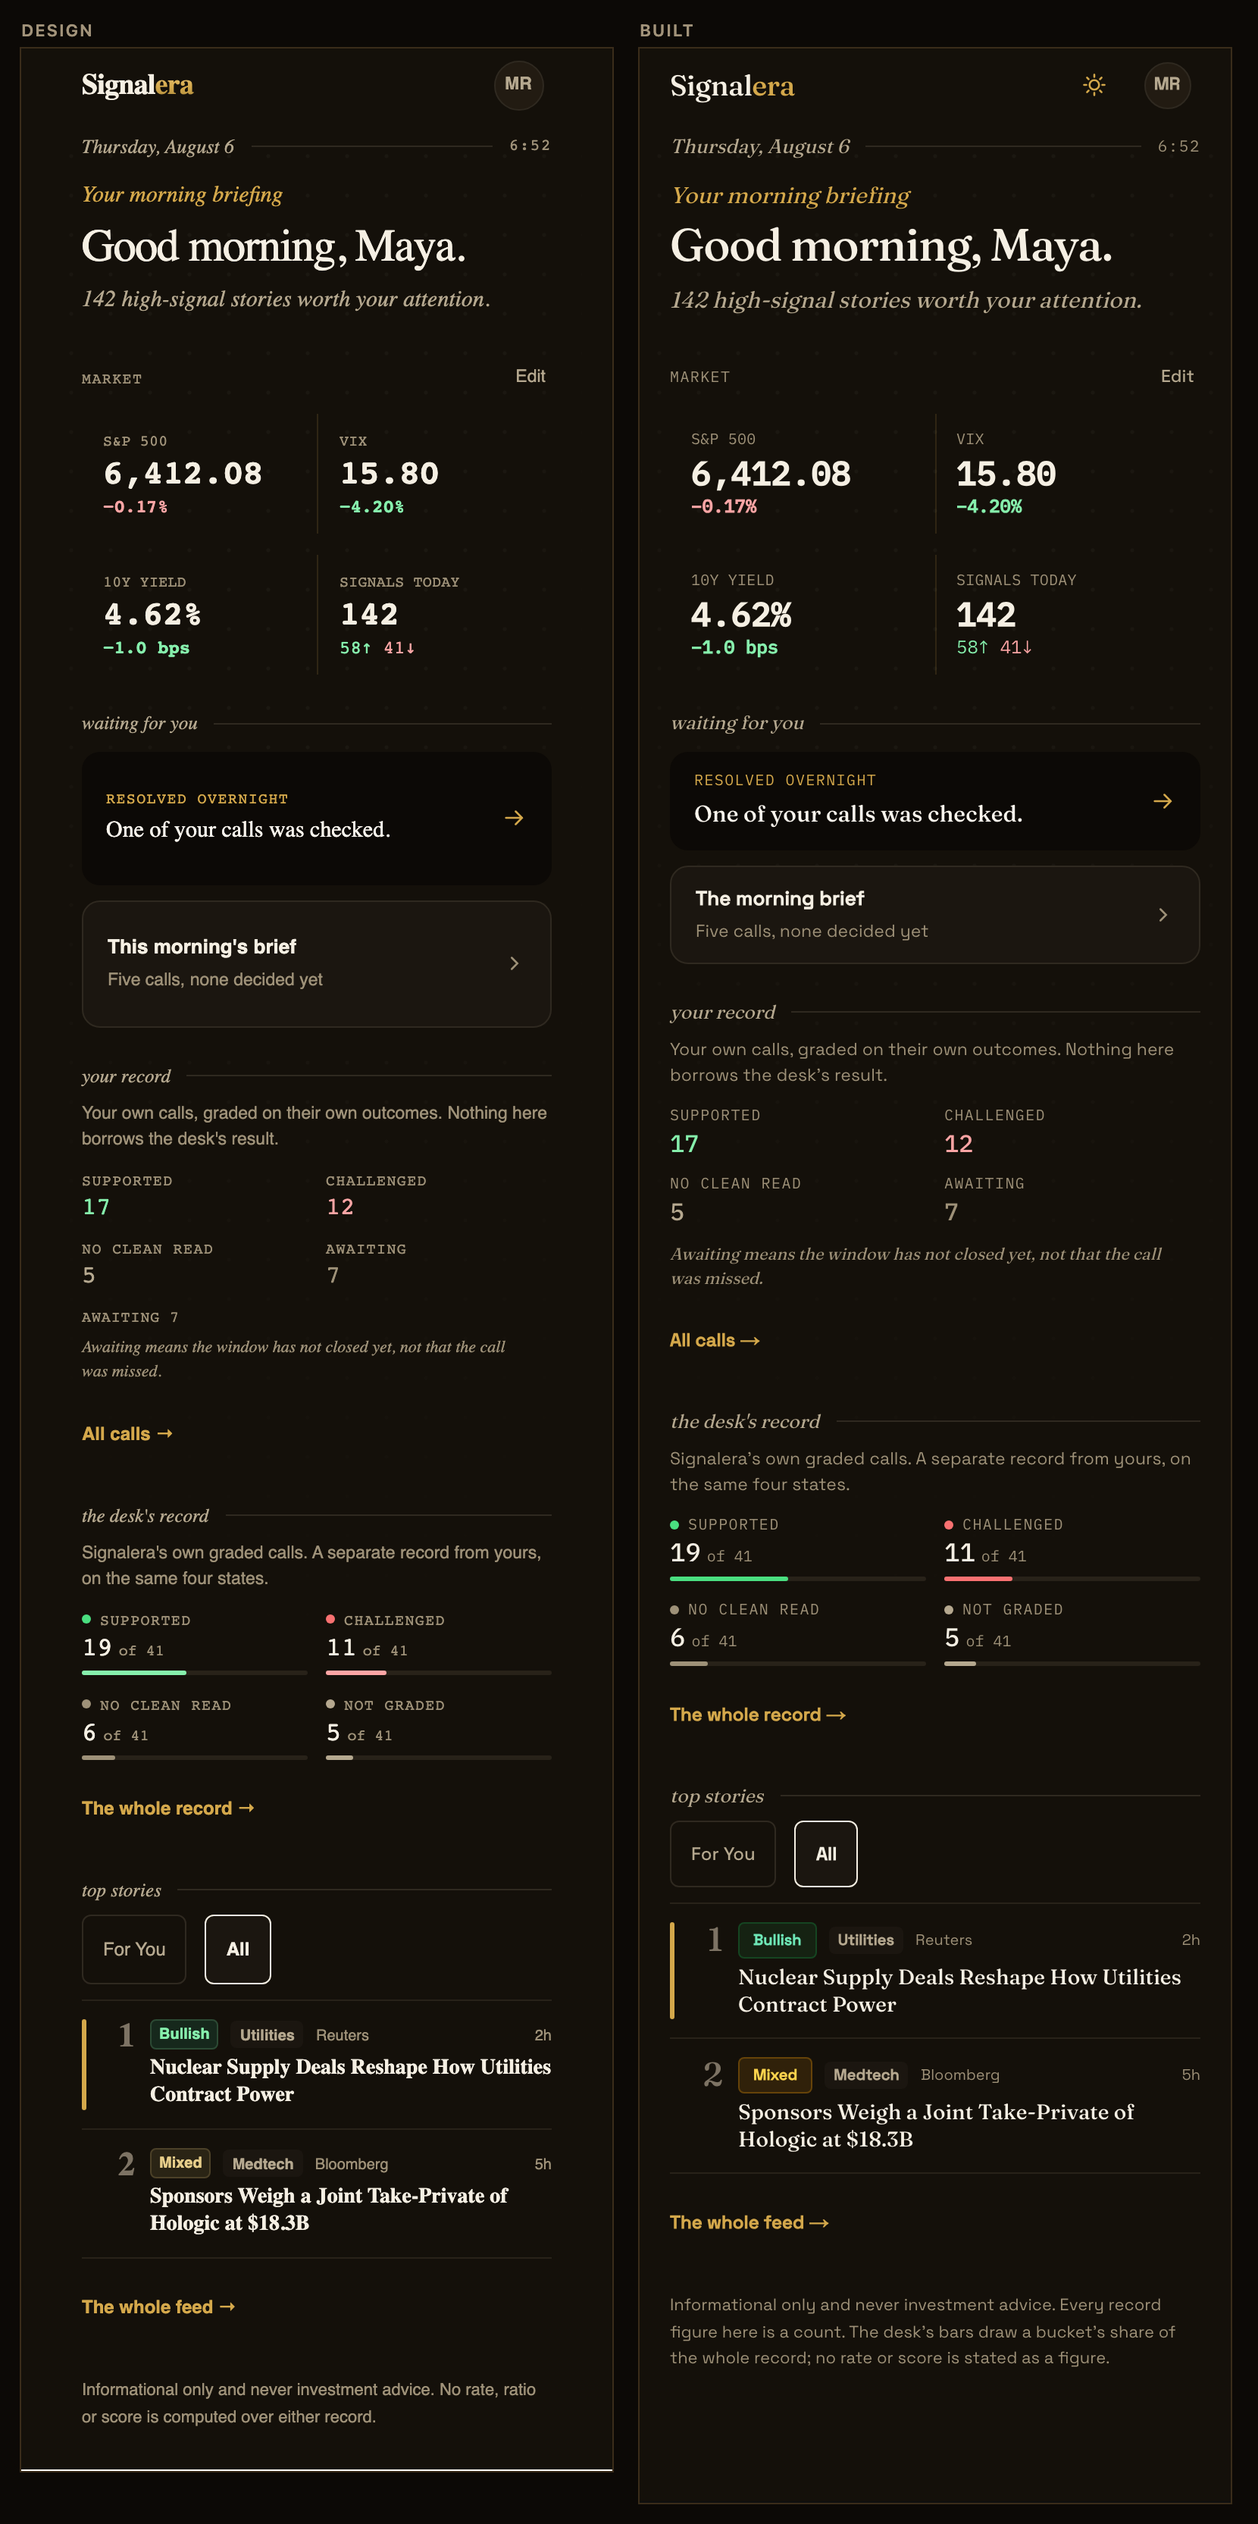
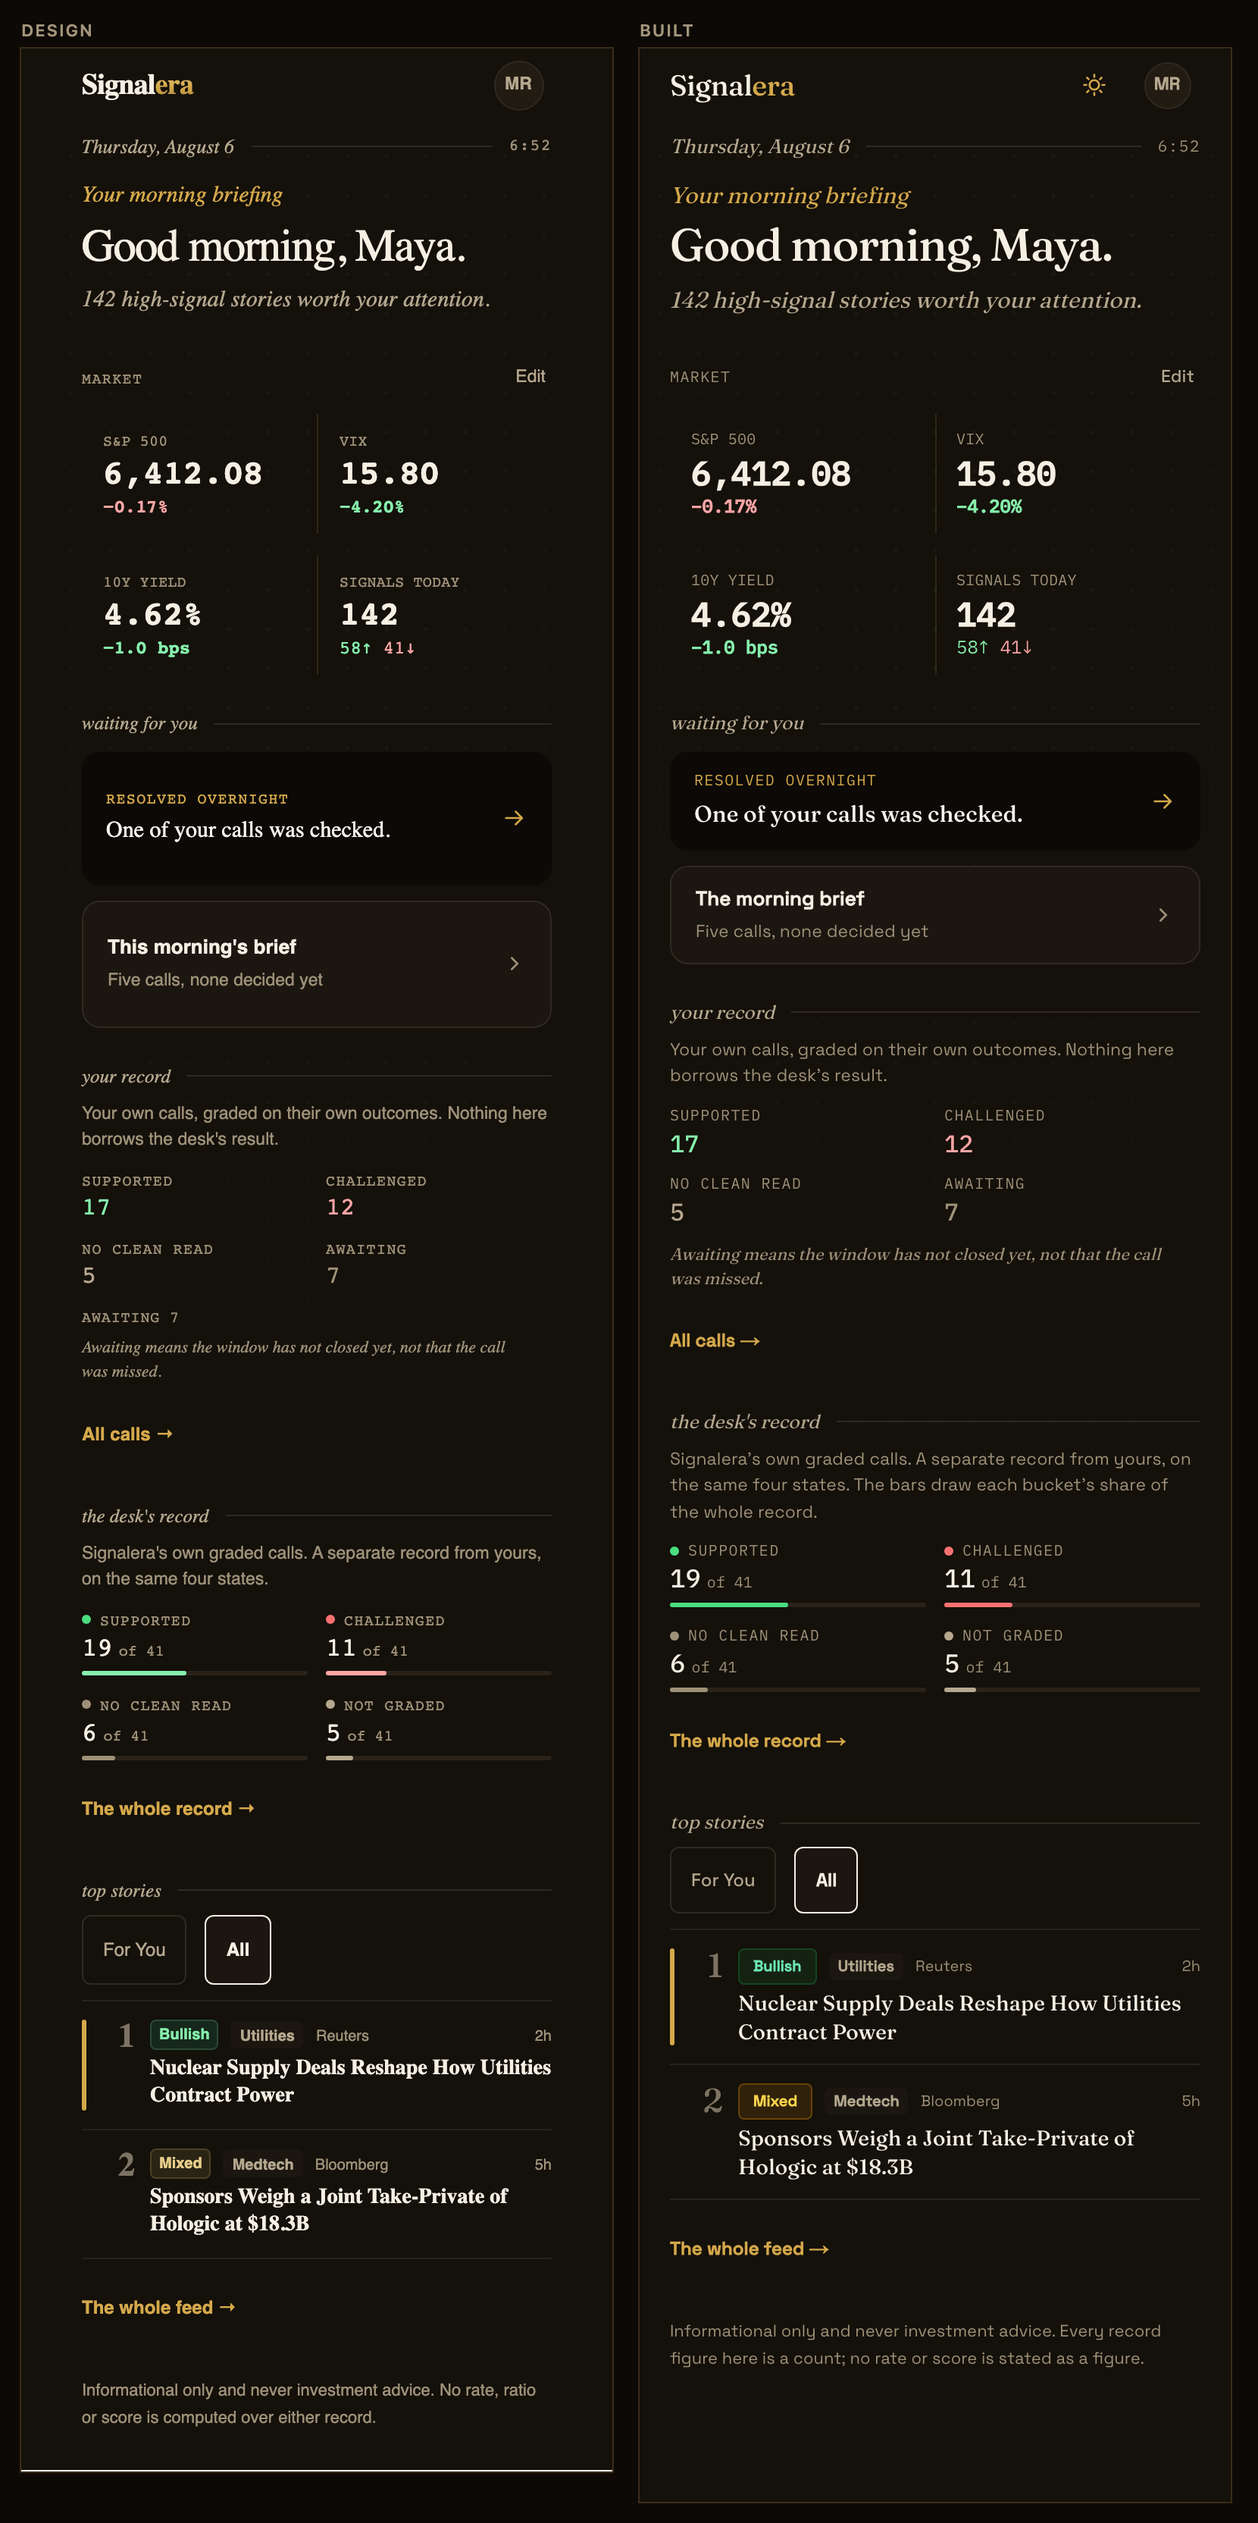
fix(mobile): a failed stories read now fails its own section, not the whole morning
`mobileStage = storiesError ? "error" : "ready"` drew the whole-screen failure
state, which discards everything. Reproduced on a production build by 500ing
only `GET /rest/v1/articles` and leaving the three count queries alone, which
answer as HEAD on the same table:

    before   125 chars on screen, 0 market cells, no brief, no record
             sections, no top stories. "We could not load your briefing."
    after   1073 chars, 4 market cells with the real counts, the brief
             headline, both record sections, and the top stories section
             saying "We could not load your top stories."

The market band, the brief and both records had all answered and were all
thrown away. That is the inverse of the rule the rest of this screen follows
and the one this PR argues for one paragraph up: an unanswered read drops its
own section and leaves the rest alone. A reader whose story read fails was
losing their own record, which they can have, over a section they cannot.

`DashboardData.stories` is now three states rather than two, which is the
smallest shape that can tell them apart:

    an array   the read answered. Empty draws the empty state, and only a
               read that came back empty may say the overnight read has not
               published.
    null       the read has not answered. No section at all.
    "failed"   the read answered with an error. That section says so, with
[…]

diff --git a/src/components/dashboard-mobile/dashboard-screen.tsx b/src/components/dashboard-mobile/dashboard-screen.tsx
@@ -103,10 +103,12 @@ export function DashboardScreen({
 
   const d = data;
   const effectiveStage: DashStage = stage;
-  /* Null stories means the read has not answered, and the section is not drawn
-     at all. `shown` is only meaningful below that guard. */
+  /* Null stories means the read has not answered and the section is not drawn
+     at all; "failed" means it answered with an error and the section says so.
+     `shown` is the answered case only, and is null in the other two. */
+  const answered = d.stories === null || d.stories === "failed" ? null : d.stories;
   const shown =
-    d.stories === null ? null : storyLens === "you" ? d.stories.filter((s) => s.forYou) : d.stories;
+    answered === null ? null : storyLens === "you" ? answered.filter((s) => s.forYou) : answered;
 
   return (
     <div data-parity="dash" style={{ backgroundColor: "var(--c-bg)", minHeight: "100%" }}>
@@ -293,13 +295,16 @@ export function DashboardScreen({
             </>
           ) : null}
 
-          {/* The whole section, rule, lens and tail link included, exists only
-              when the Top Stories read ANSWERED. "The overnight read has not
-              published" is a statement about the desk, and the only thing that
-              can support it is a read that came back empty. A read still in
-              flight supports nothing, and it used to reach this same copy
-              because an outstanding read and an empty one were both `[]`. */}
-          {shown !== null ? (
+          {/* THE FAILED READ FAILS THIS SECTION AND NOTHING ELSE. It used to set
+              `stage="error"` on the whole screen, which threw away the market
+              band, the brief and both records even when all four had answered.
+              That is the inverse of the rule the null path above follows. */}
+          {d.stories === "failed" ? (
+            <>
+              <SectionRule label="top stories" delayMs={D.stories} />
+              <StoriesFailed />
+            </>
+          ) : shown !== null ? (
             <>
               <SectionRule label="top stories" delayMs={D.stories} />
               <div style={{ marginTop: "10px", display: "flex", gap: "12px" }}>
@@ -1081,6 +1086,63 @@ function DashSkeleton() {
  * separate per-section absences instead, none of which can say the page
  * failed. On a product whose claim is that nothing is curated away, a failed
  * read that reads as an empty one is a trust failure, so the screen states it.
+ */
+/**
+ * The Top Stories read failed, said at section scope.
+ *
+ * Same words as `DashError`, narrowed to the one section they are true of, and
+ * carrying the same escape: the loader runs once on mount, so a reload is the
+ * only retry there is and the control says what it does. Everything above and
+ * below this section keeps rendering whatever its own read gave back.
+ */
+function StoriesFailed() {
+  return (
+    <div style={{ marginTop: "12px" }} role="alert">
+      <p style={{ margin: 0, font: `500 15px/1.35 ${SERIF}`, color: "var(--c-ink)" }}>
+        We could not load your top stories.
+      </p>
+      <p
+        style={{
+          margin: "6px 0 0",
+          font: `400 11.5px/1.5 ${SANS}`,
+          color: "var(--c-muted)",
+          maxWidth: "34ch",
+          textWrap: "pretty",
+        }}
+      >
+        This is a failed read, not an empty morning. Nothing is being hidden.
+      </p>
+      <button
+        type="button"
+        onClick={() => window.location.reload()}
+        className={ledger.bare}
+        style={{
+          marginTop: "12px",
+          minHeight: "44px",
+          display: "inline-flex",
+          alignItems: "center",
+          padding: "0 17px",
+          border: "1px solid var(--c-ink)",
+          borderRadius: "9px",
+          font: `600 13px/1 ${SANS}`,
+          color: "var(--c-ink)",
+        }}
+      >
+        Try again
+      </button>
+    </div>
+  );
+}
+
+/**
+ * The whole screen failed.
+ *
+ * REACHABLE ONLY FROM THE PREVIEW PATH NOW. `?stage=error` draws it so the
+ * design's error state stays fingerprintable, and the real loader never sets
+ * it: a failed Top Stories read fails its own section above, and every other
+ * read on this screen renders its absence by leaving its section out. If a
+ * future read genuinely cannot be survived section by section, this is where
+ * it lands, and the reason should be written here first.
  */
 function DashError() {
   return (

diff --git a/src/components/dashboard-mobile/copy.ts b/src/components/dashboard-mobile/copy.ts
@@ -19,19 +19,32 @@ export const DASH_WAITING_EYEBROW = "RESOLVED OVERNIGHT";
 export const DASH_YOUR_RECORD_INTRO =
   "Your own calls, graded on their own outcomes. Nothing here borrows the desk's result.";
 
+/**
+ * The desk record's intro, and the only place the bars are described.
+ *
+ * The bars clause used to live in the closing disclaimer, which renders in
+ * every state including the ones where the desk record did not answer and no
+ * bar is on screen. A sentence describing an element that is not there is
+ * harmless but it is still a sentence about something nobody can see. It sits
+ * with the bars now, so it renders exactly when they do.
+ */
 export const DASH_DESK_RECORD_INTRO =
-  "Signalera's own graded calls. A separate record from yours, on the same four states.";
+  "Signalera's own graded calls. A separate record from yours, on the same four states. The bars draw each bucket's share of the whole record.";
 
 /**
- * The closing line.
+ * The closing line, and it has to be true in every state this screen has.
  *
  * It used to read "No rate, ratio or score is computed over either record",
- * and that sentence rendered a few hundred pixels under four desk bars whose
- * width is `count / total`. A share is a ratio and the bars compute one, so
- * the old line contradicted what the screen draws. The bars stay, because they
- * state no figure and removing them is a change to the record component's
- * design rather than to this screen's honesty; the sentence is the half that
- * was wrong, so the sentence is the half that changed.
+ * and that rendered a few hundred pixels under four desk bars whose width is
+ * `count / total`. A share is a ratio and the bars compute one, so the line
+ * contradicted what the screen draws. The bars stay, because they state no
+ * figure and removing them is a change to the record component's design rather
+ * than to this screen's honesty.
+ *
+ * The replacement then described the bars, which was accurate whenever they
+ * rendered and stranded whenever the record read did not answer. So the bars
+ * clause moved to `DASH_DESK_RECORD_INTRO`, beside the bars, and what is left
+ * here is true whether or not a single record section drew.
  */
 export const DASH_DISCLAIMER =
-  "Informational only and never investment advice. Every record figure here is a count. The desk's bars draw a bucket's share of the whole record; no rate or score is stated as a figure.";
+  "Informational only and never investment advice. Every record figure here is a count; no rate or score is stated as a figure.";

diff --git a/src/app/dashboard/page.tsx b/src/app/dashboard/page.tsx
@@ -773,10 +773,12 @@ function DashboardPageInner() {
       briefHeadline: briefingHeadline,
       /* The base Top Stories list, not `displayStories`. The phone has its
          own For You lens and must not inherit which tab the desk is on.
-         Null while the read is outstanding, so the section is absent rather
-         than empty; an empty list is the one thing that entitles the screen to
-         say the overnight read has not published. */
-      stories: storiesLoading ? null : stories,
+         Three states, and the order matters: a failed read sets `storiesError`
+         and clears `storiesLoading` in the same finally, so failure is tested
+         first. Null while the read is outstanding, so the section is absent
+         rather than empty; an empty list is the one thing that entitles the
+         screen to say the overnight read has not published. */
+      stories: storiesError ? "failed" : storiesLoading ? null : stories,
       watchlistTickers: profile?.watchlist_tickers ?? [],
       profileSectors: profile?.sectors ?? [],
       yourRecord: mobileRecords.yourRecord,
@@ -796,14 +798,26 @@ function DashboardPageInner() {
     marketCards,
     briefingHeadline,
     storiesLoading,
+    storiesError,
     stories,
     mobileRecords,
   ]);
 
-  /* A failed Top Stories read is the only page-level failure the phone can
-     state as one. Everything else is absent rather than broken, and absence is
-     drawn by leaving the section out. */
-  const mobileStage: DashStage = storiesError ? "error" : "ready";
+  /* NO PAGE-LEVEL FAILURE BLANKS THIS SCREEN.
+   *
+   * This was `storiesError ? "error" : "ready"`, and `stage="error"` draws the
+   * whole-screen failure: one failed Top Stories read discarded the market
+   * band, the brief headline and both records even when all four had answered.
+   * A reader whose story read failed lost their own record, which they can
+   * have, over a section they cannot. That is the inverse of the rule the rest
+   * of this block follows.
+   *
+   * The failure now travels as `stories: "failed"` and is drawn by the Top
+   * Stories section alone. Every other read on this screen renders its absence
+   * by leaving its own section out, so there is nothing left that has to take
+   * the morning down with it. `?stage=error` still reaches the whole-screen
+   * state on the preview path, which is where the design is fingerprinted. */
+  const mobileStage: DashStage = "ready";
 
   return (
     <AppShell

diff --git a/src/components/dashboard-mobile/from-dashboard.ts b/src/components/dashboard-mobile/from-dashboard.ts
@@ -81,10 +81,12 @@ export interface DashboardSources {
   /** Keyed by upper-case symbol, exactly as the page keeps it. */
   quotes: Record<string, DashQuote | null | undefined>;
   briefHeadline: string | null;
-  /** Null when the Top Stories read has not answered. An empty array means it
-   *  answered and had nothing, which is the only case the screen may say so
-   *  in words. */
-  stories: DashSourceStory[] | null;
+  /**
+   * Null when the Top Stories read has not answered, "failed" when it answered
+   * with an error, an array when it answered. An empty array means it answered
+   * and had nothing, which is the only case the screen may say so in words.
+   */
+  stories: DashSourceStory[] | null | "failed";
   watchlistTickers: string[];
   profileSectors: string[];
   /** The reader's own record. Null when it has not been read. */
@@ -327,13 +329,15 @@ export function buildDashboardData(sources: DashboardSources): DashboardData {
     deskRecord: sources.deskRecord
       ? { intro: DASH_DESK_RECORD_INTRO, ...sources.deskRecord }
       : null,
-    /* Null all the way through to the screen, which then draws no Top Stories
-       section at all. Mapping a null to `[]` here would reach the empty state,
-       and the empty state says "The overnight read has not published", which
-       is a claim about the desk made from a read that has not answered. */
+    /* Null and "failed" pass straight through to the screen, which draws no
+       Top Stories section on the first and a failed section on the second.
+       Mapping either to `[]` here would reach the empty state, and the empty
+       state says "The overnight read has not published", which is a claim
+       about the desk that neither an outstanding read nor a broken one can
+       support. */
     stories:
-      sources.stories === null
-        ? null
+      sources.stories === null || sources.stories === "failed"
+        ? sources.stories
         : sources.stories.map((s, i) =>
             toDashStory(s, i, sources.watchlistTickers, sources.profileSectors),
           ),

diff --git a/src/components/dashboard-mobile/fixture.ts b/src/components/dashboard-mobile/fixture.ts
@@ -128,13 +128,25 @@ export interface DashboardData {
   /** Null while the desk's record has not been read, or the read failed. */
   deskRecord: { intro: string; byResolution: Record<Resolution, number>; total: number } | null;
   /**
-   * The Top Stories list, and NULL when the read has not answered.
+   * The Top Stories read, in three states, because three things can be true
+   * of it and each one is drawn differently.
    *
-   * Null draws no section at all. An empty array draws the empty state, which
-   * says the overnight read has not published, and that is a statement about
-   * the desk that only a read that came back empty can support.
+   *   an array   the read ANSWERED. An empty one draws the empty state, which
+   *              says the overnight read has not published, and only a read
+   *              that came back empty can support that sentence.
+   *   null       the read HAS NOT ANSWERED. No section at all, rule and lens
+   *              and tail link included.
+   *   "failed"   the read ANSWERED WITH AN ERROR. The section says so, and
+   *              only that section does.
+   *
+   * The third state used to be a whole-screen stage. A failed Top Stories read
+   * set `stage="error"` on the screen, which discarded the market band, the
+   * brief and both records even when all four had answered. A reader whose
+   * story read failed lost their own record, which they can have, over a
+   * section they cannot. Same rule as the null path, applied to failure: the
+   * section that broke says so and the rest of the morning stands.
    */
-  stories: DashStory[] | null;
+  stories: DashStory[] | null | "failed";
   /** Published only when the reader is looking at yesterday's briefing. */
   staleNotice: string | null;
   disclaimer: string;
